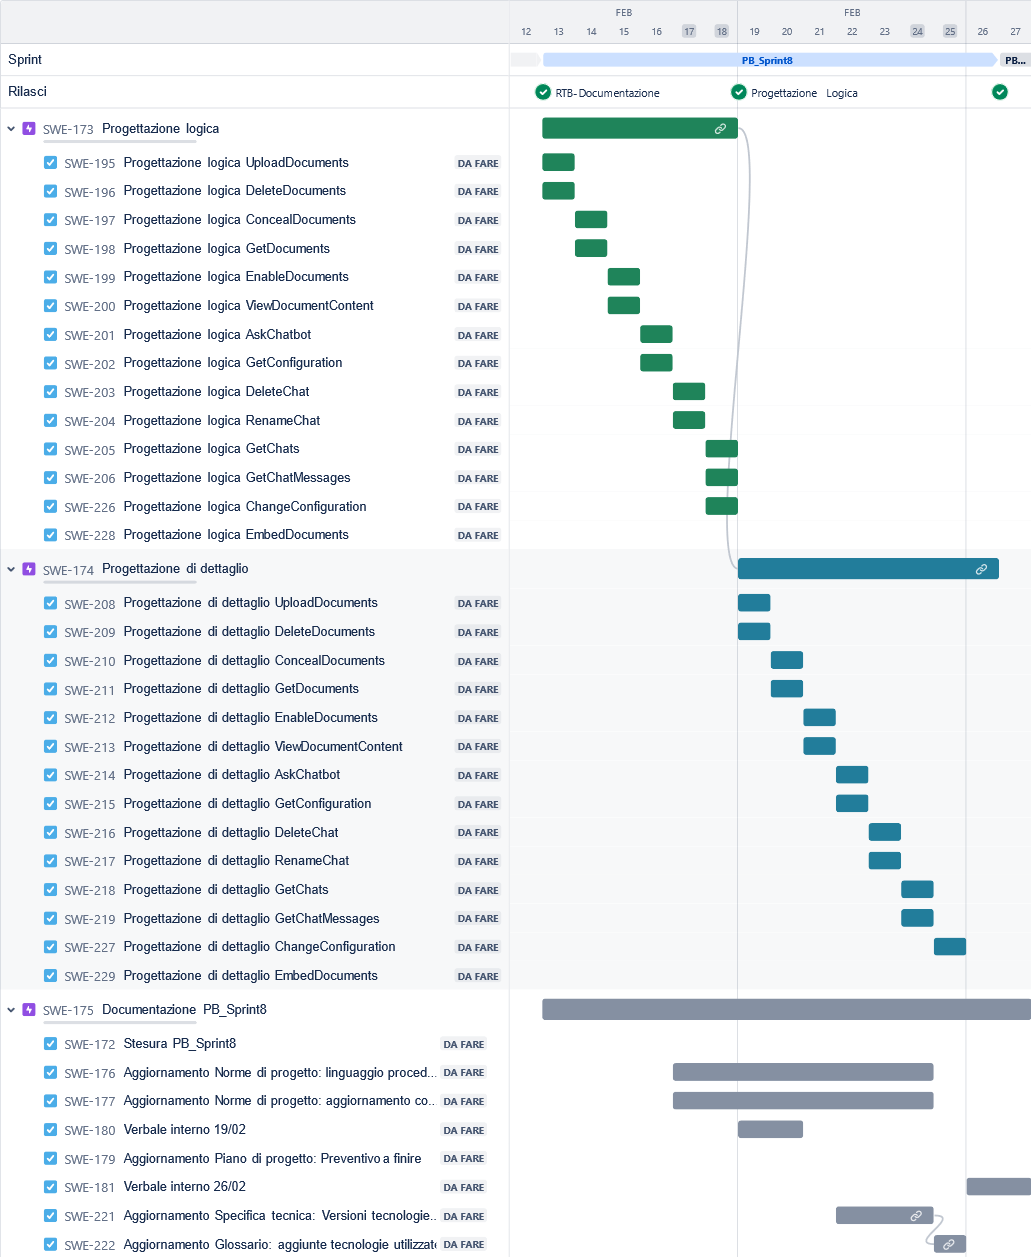
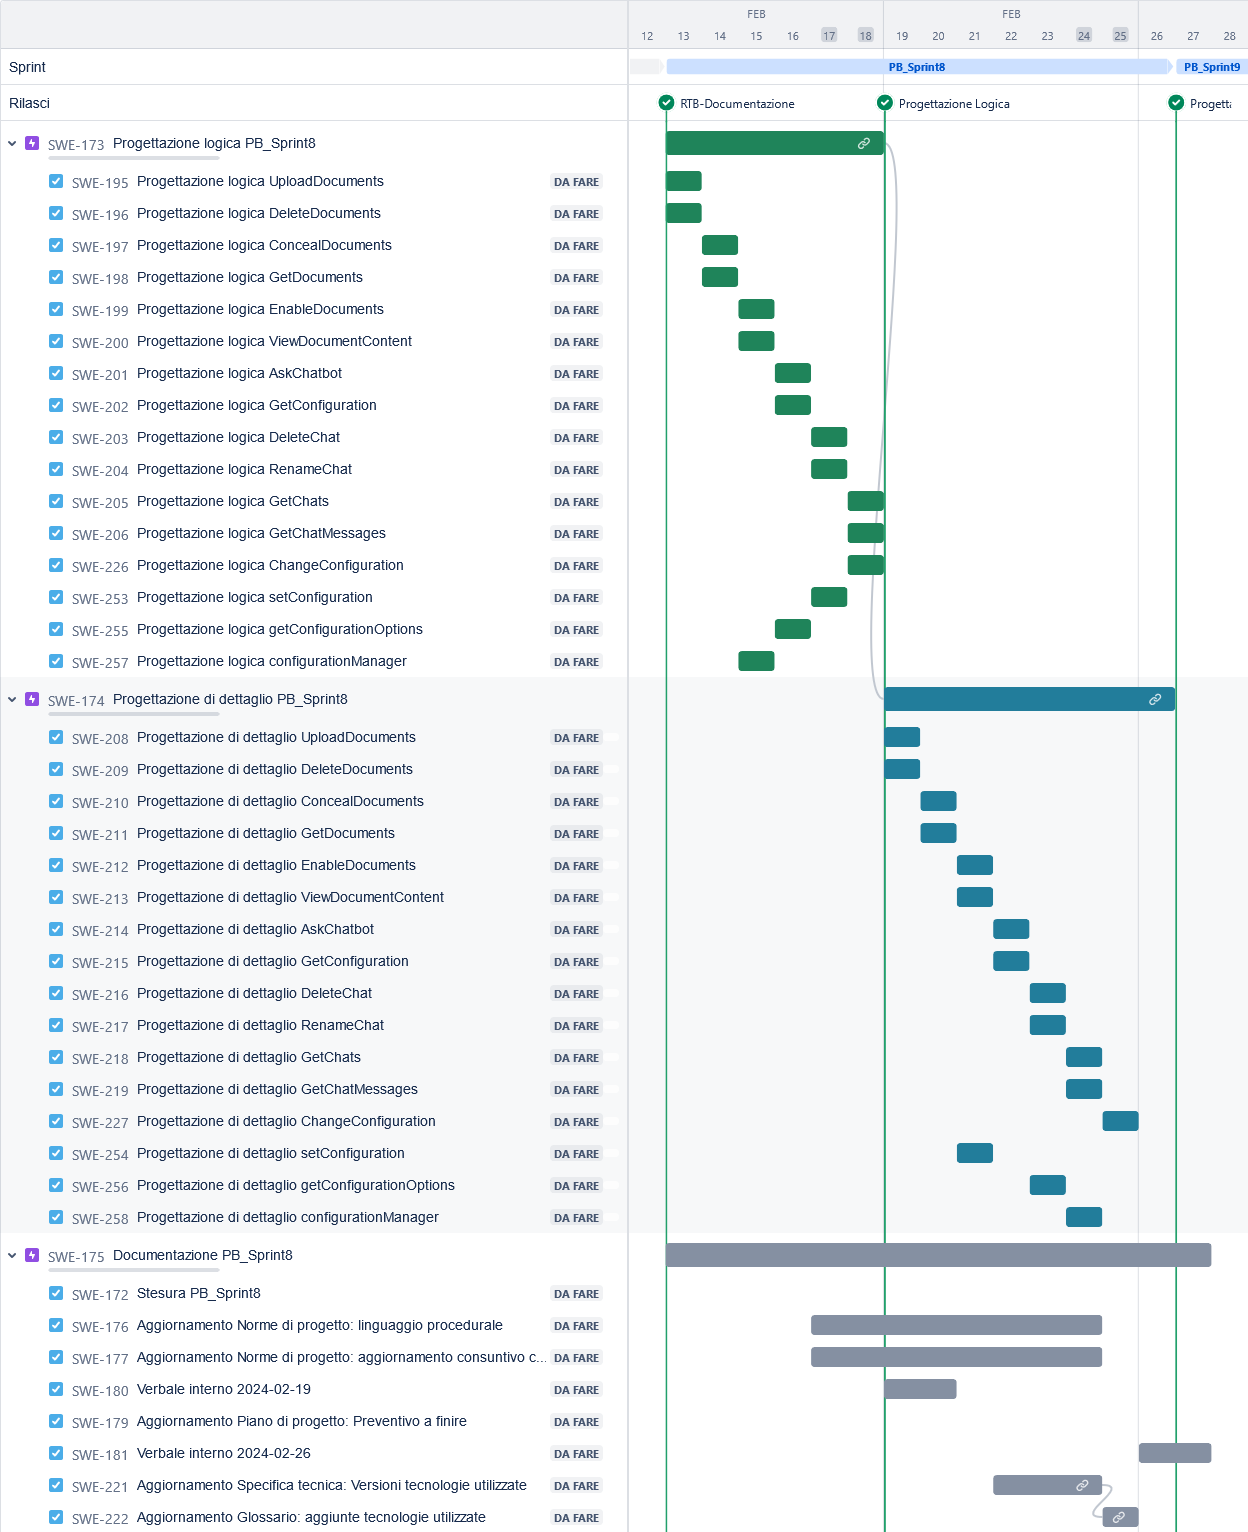
Correzione Sprint 9.

diff --git a/SorgentiTex/Piano di progetto/main.tex b/SorgentiTex/Piano di progetto/main.tex
@@ -528,11 +528,9 @@ In questo periodo le ore di lavoro sono concentrate nella creazione di un \texti
 %
 \subsubsubsection{Obiettivi}
 \begin{itemize}
-    \item Continuazione progettazione logica;
+    \item Continuazione progettazione logica e di dettaglio;
     \item Progettazione di dettaglio;
-    \item Inizio programmazione;
-    \item Primi test di unità;
-    \item Documentazione relativa al codice;
+    \item Inizio stesura Specifica tecnica;
     \item Eventuali correzioni alla documentazione post colloquio;
     \item Aggiornamento Piano di qualifica;
     \item Aggiornamento Piano di progetto;
@@ -551,23 +549,28 @@ In questo periodo le ore di lavoro sono concentrate nella creazione di un \texti
 %
 \subsubsubsection{Obiettivi}
 \begin{itemize}
-    \item Conclusione progettazione di dettaglio;
-    \item Inizio programmazione;
-    \item Test di unità e di integrazione;
+    \item Programmazione backend;
+    \item Test di unità;
     \item Documentazione relativa al codice;
     \item Aggiornamento Piano di qualifica;
     \item Aggiornamento Piano di progetto;
     \item Verbali delle riunioni.
 \end{itemize}
 
+\begin{figure}[H]
+    \centering        
+    \includegraphics[width=15.5cm]{gantt/ganttPeriodo9.png}
+    \caption{Diagramma di Gantt Periodo 9}
+\end{figure}
+
 \subsubsection{Periodo 10: da 2024-03-12 a 2024-03-26}
 %
 \subsubsubsection{Obiettivi}
 \begin{itemize}
-    \item Programmazione;
+    \item Programmazione frontend;
     \item Test di integrazione;
-    \item Test di sistema;
-    \item Documentazione relativa al codice;
+    \item Stesura Manuale Utente;
+    \item Continuazione stesura Specifica tecnica;
     \item Aggiornamento Piano di qualifica;
     \item Aggiornamento Piano di progetto;
     \item Verbali delle riunioni.
@@ -577,6 +580,9 @@ In questo periodo le ore di lavoro sono concentrate nella creazione di un \texti
 \subsubsubsection{Obiettivi}
 \begin{itemize}
     \item Conclusione Programmazione;
+    \item Test di sistema;
+    \item Conclusione stesura Manuale Utente;
+    \item Conclusione stesura Specifica tecnica;
     \item Documentazione relativa al codice;
     \item Aggiornamento Piano di qualifica;
     \item Aggiornamento Piano di progetto;
@@ -1295,7 +1301,7 @@ Di seguito, la distribuzione delle ore del primo sprint; ogni componente del gru
         \rowcolor{primarycolor}
         \textbf{TOT} & 44 & 45 & -1 & 965,00\texteuro & 985,00\texteuro & -20,00\texteuro
     \end{tabularx}
-    \caption{Consuntivo costi - Sprint 2}
+    \caption{Consuntivo costi - Sprint 1}
 \end{table}
 
 \subsubsection{Revisione}
